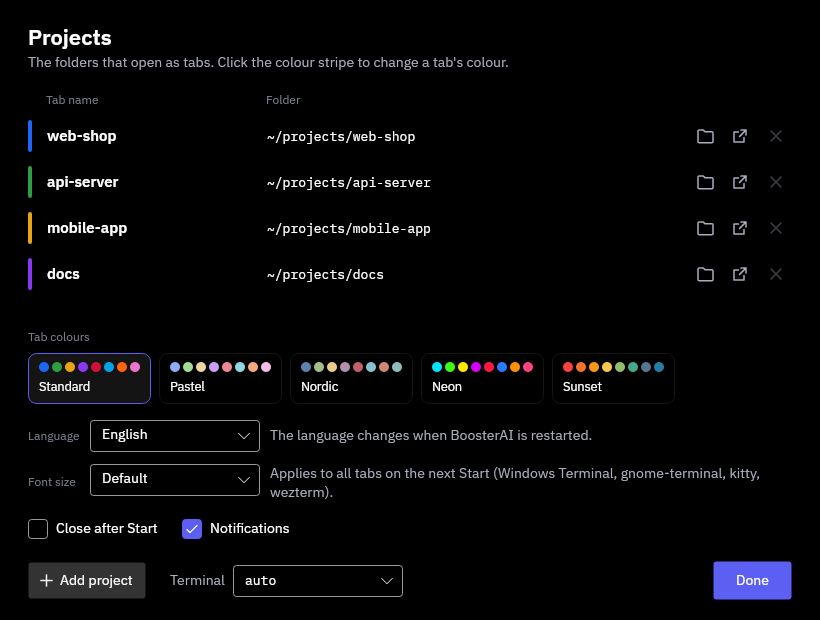
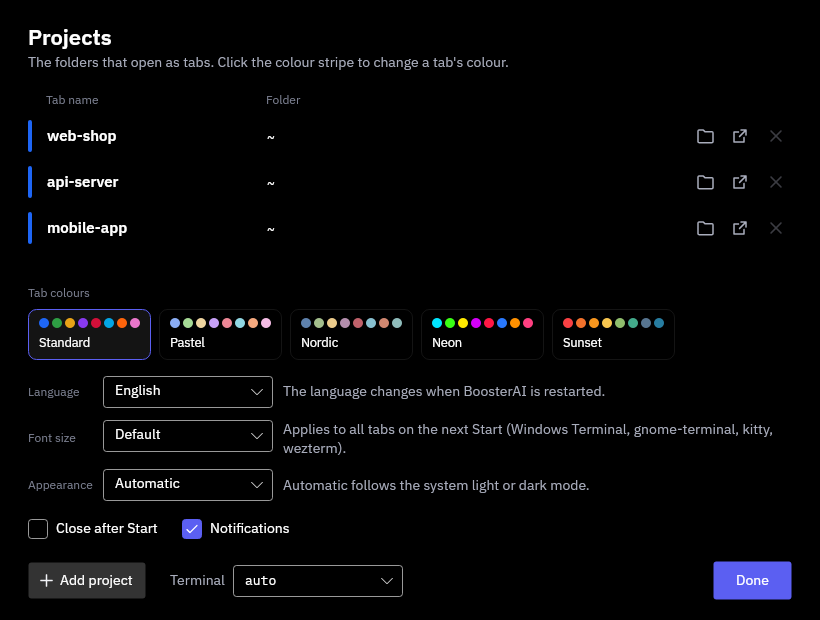
Appearance setting Auto/Light/Dark, applied live to all windows; --theme wins over config (Refs #22)

diff --git a/src/BoosterAI/App.axaml.cs b/src/BoosterAI/App.axaml.cs
@@ -17,17 +17,31 @@ public partial class App : Application
         // The language must be set before any XAML (and its {local:T} texts) loads.
         Loc.Init(_config.Language);
         AvaloniaXamlLoader.Load(this);
-        // --theme light|dark overrides the system theme (also used for screenshots).
-        var args = Environment.GetCommandLineArgs();
-        var i = Array.IndexOf(args, "--theme");
-        if (i >= 0 && i + 1 < args.Length)
-            RequestedThemeVariant = args[i + 1] switch
-            {
-                "light" => Avalonia.Styling.ThemeVariant.Light,
-                "dark" => Avalonia.Styling.ThemeVariant.Dark,
-                _ => RequestedThemeVariant,
-            };
+        ApplyTheme();
     }
+
+    /// <summary>Maps the config value to a theme variant: light, dark, anything else (auto, missing, unknown) follows the system.</summary>
+    public static Avalonia.Styling.ThemeVariant ThemeFor(string? value) => value switch
+    {
+        "light" => Avalonia.Styling.ThemeVariant.Light,
+        "dark" => Avalonia.Styling.ThemeVariant.Dark,
+        _ => Avalonia.Styling.ThemeVariant.Default,
+    };
+
+    /// <summary>The value after --theme on the command line, or null when the flag is absent.</summary>
+    public static string? ThemeArg(string[] args)
+    {
+        var i = Array.IndexOf(args, "--theme");
+        return i >= 0 && i + 1 < args.Length ? args[i + 1] : null;
+    }
+
+    /// <summary>The effective theme: a --theme light|dark flag wins over the config's AppTheme.</summary>
+    public static Avalonia.Styling.ThemeVariant ResolveTheme(string[] args, string? configValue) =>
+        ThemeArg(args) is "light" or "dark" ? ThemeFor(ThemeArg(args)) : ThemeFor(configValue);
+
+    /// <summary>Applies the effective theme to the whole application, so every open window follows at once.</summary>
+    public void ApplyTheme() =>
+        RequestedThemeVariant = ResolveTheme(Environment.GetCommandLineArgs(), _config.AppTheme);
 
     public override void OnFrameworkInitializationCompleted()
     {

diff --git a/src/BoosterAI/ViewModels.cs b/src/BoosterAI/ViewModels.cs
@@ -265,6 +265,21 @@ public sealed class MainViewModel : Observable
         }
     }
 
+    /// <summary>Appearance setting shown in Settings; applies to all open windows at once.</summary>
+    public IReadOnlyList<ThemeChoice> AppearanceChoices { get; } = [new("auto"), new("light"), new("dark")];
+
+    public ThemeChoice SelectedAppearance
+    {
+        get => AppearanceChoices.FirstOrDefault(c => c.Id == _cfg.AppTheme) ?? AppearanceChoices[0];
+        set
+        {
+            if (value is null || value.Id == _cfg.AppTheme) return;
+            _cfg.AppTheme = value.Id;
+            (Avalonia.Application.Current as App)?.ApplyTheme();
+            Raise();
+        }
+    }
+
     /// <summary>Global CLI zoom shown in Settings; applies on the next start.</summary>
     public IReadOnlyList<ZoomChoice> ZoomChoices { get; } = [.. Launcher.ZoomChoices.Select(p => new ZoomChoice(p))];
 
@@ -464,6 +479,12 @@ public sealed class MainViewModel : Observable
 public sealed record LanguageChoice(string Id)
 {
     public string Label => Loc.Get("language." + Id);
+}
+
+/// <summary>One entry of the appearance picker: "auto", "light" or "dark".</summary>
+public sealed record ThemeChoice(string Id)
+{
+    public string Label => Loc.Get("theme." + Id);
 }
 
 /// <summary>One entry of the zoom picker; 0 means the terminal's default size.</summary>

diff --git a/tests/BoosterAI.Tests/ThemeTests.cs b/tests/BoosterAI.Tests/ThemeTests.cs
@@ -1,0 +1,37 @@
+using Avalonia.Styling;
+using BoosterAI;
+using Xunit;
+
+namespace BoosterAI.Tests;
+
+public class ThemeTests
+{
+    [Theory]
+    [InlineData("light", "Light")]
+    [InlineData("dark", "Dark")]
+    [InlineData("auto", "Default")]
+    [InlineData("", "Default")]
+    [InlineData(null, "Default")]
+    [InlineData("neon", "Default")]
+    public void ConfigValueMapsToThemeVariant(string? value, string expected) =>
+        Assert.Equal(expected, App.ThemeFor(value).Key.ToString());
+
+    [Fact]
+    public void MissingAppThemeInOldConfigIsAuto() =>
+        Assert.Equal("auto", new AppConfig().AppTheme);
+
+    [Theory]
+    [InlineData("dark", "light", "Dark")]
+    [InlineData("light", "dark", "Light")]
+    [InlineData("light", "auto", "Light")]
+    [InlineData("bogus", "dark", "Dark")]
+    public void CommandLineFlagBeatsConfig(string flag, string config, string expected) =>
+        Assert.Equal(expected, App.ResolveTheme(["x", "--theme", flag], config).Key.ToString());
+
+    [Fact]
+    public void WithoutFlagConfigDecides()
+    {
+        Assert.Equal("Dark", App.ResolveTheme(["x"], "dark").Key.ToString());
+        Assert.Equal("Default", App.ResolveTheme(["x", "--theme"], "auto").Key.ToString());
+    }
+}

diff --git a/src/BoosterAI/Config.cs b/src/BoosterAI/Config.cs
@@ -32,6 +32,8 @@ public sealed class AppConfig
     public string ColorTheme { get; set; } = "Standard";
     /// <summary>UI language: "auto" (follow the OS), "sv" or "en". Applied at startup.</summary>
     public string Language { get; set; } = Loc.Auto;
+    /// <summary>App appearance: "auto" (follow the system), "light" or "dark". Applied live. Not the tab colour themes.</summary>
+    public string AppTheme { get; set; } = "auto";
     /// <summary>Close after Start (the behaviour before tab monitoring) instead of watching the tabs from the tray.</summary>
     public bool CloseAfterLaunch { get; set; }
     /// <summary>System notification when a watched tab closes, fails to start or its CLI fails.</summary>

diff --git a/docs/DETAILS.md b/docs/DETAILS.md
@@ -28,6 +28,10 @@ On Linux all tabs open as tabs of ONE window in `gnome-terminal` and `xfce4-term
 
 On Linux the zoom is passed to gnome-terminal (`--zoom`), kitty (`-o font_size`, 11 pt base) and wezterm (`--config font_size`, 12 pt base); other terminals (ptyxis, konsole, xfce4-terminal, xterm, ...) have no command-line option for it and ignore the setting. `BoosterAI --dry-run` prints the resulting commands and fragment.
 
+## Appearance
+
+*Appearance* in the settings window sets the app's light or dark look: **Auto** (follows the system, the default), **Light** or **Dark**. It is saved as `"AppTheme": "auto" | "light" | "dark"` in `config.json` and applies at once to all open windows. The command-line flag `--theme light|dark` wins over the config (used for screenshots). It does not affect the tab colour themes.
+
 ## Language
 
 BoosterAI speaks Swedish and English. By default it follows the operating system's UI language (Swedish if that is Swedish, otherwise English). Choose **Automatiskt / Svenska / English** under *Language* in the settings window; the choice is saved in `config.json` (`"Language": "auto" | "sv" | "en"`) and **takes effect after BoosterAI is restarted**. The prompt sent to the AI when it installs the orchestra follows the chosen language too.

diff --git a/README.md b/README.md
@@ -20,7 +20,7 @@ Start your whole working day with one click: BoosterAI opens every project you w
 - **Open the folder.** One button per project opens its directory in Explorer (WSL folders included), Finder or your Linux file manager.
 - **Your shell, your setup.** Tabs run through `bash -lic`, so your aliases and `PATH` apply, and you keep a normal shell when the CLI exits.
 - **Font size.** One setting zooms the CLI text in all tabs.
-- **Themes and language.** Five tab colour themes, light and dark, in Swedish or English.
+- **Themes and language.** Five tab colour themes, an Appearance setting (Auto, Light or Dark, applied at once), in Swedish or English.
 - **Windows and Linux.** Windows Terminal with WSL on Windows; Ptyxis, gnome-terminal, konsole, xfce4-terminal, kitty, wezterm or xterm on Linux.
 
 ![The BoosterAI settings window](docs/settings.png)
